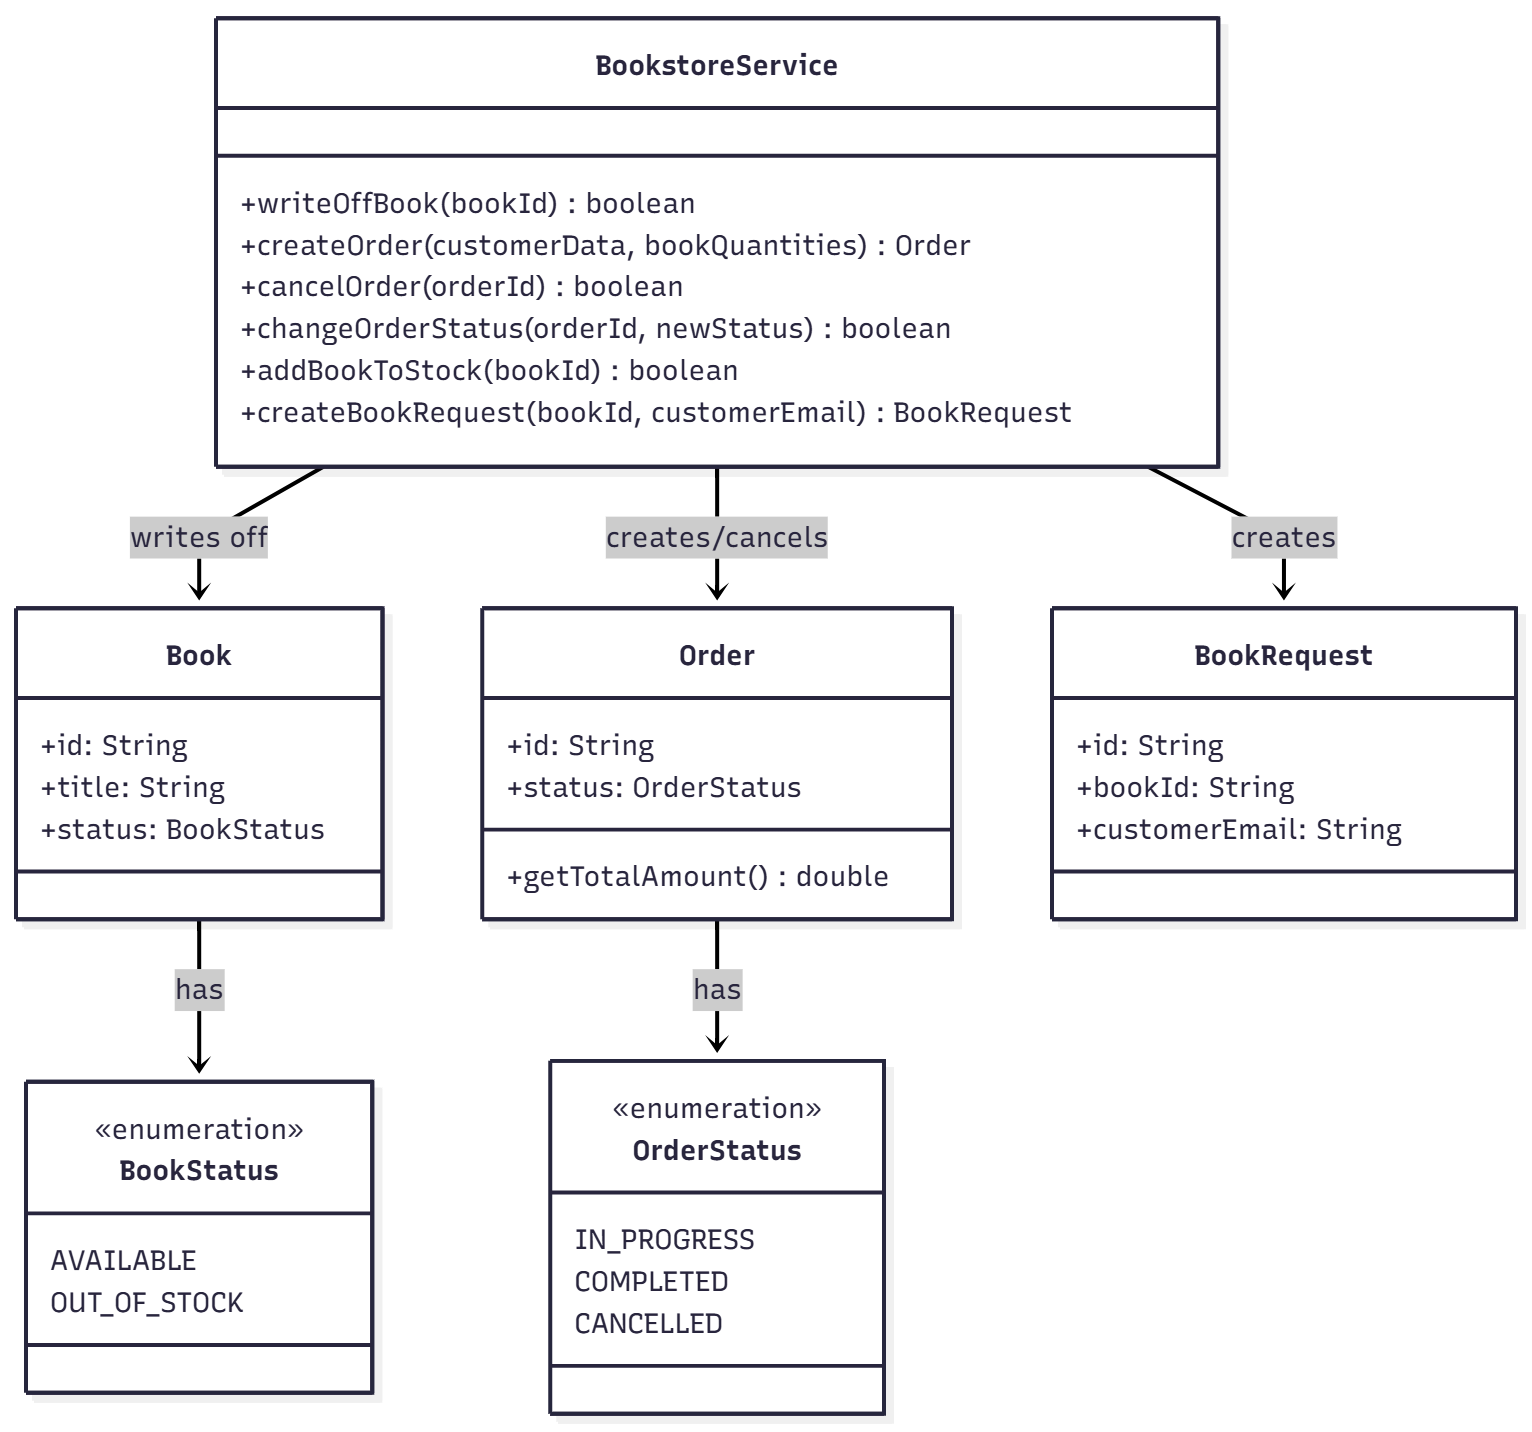
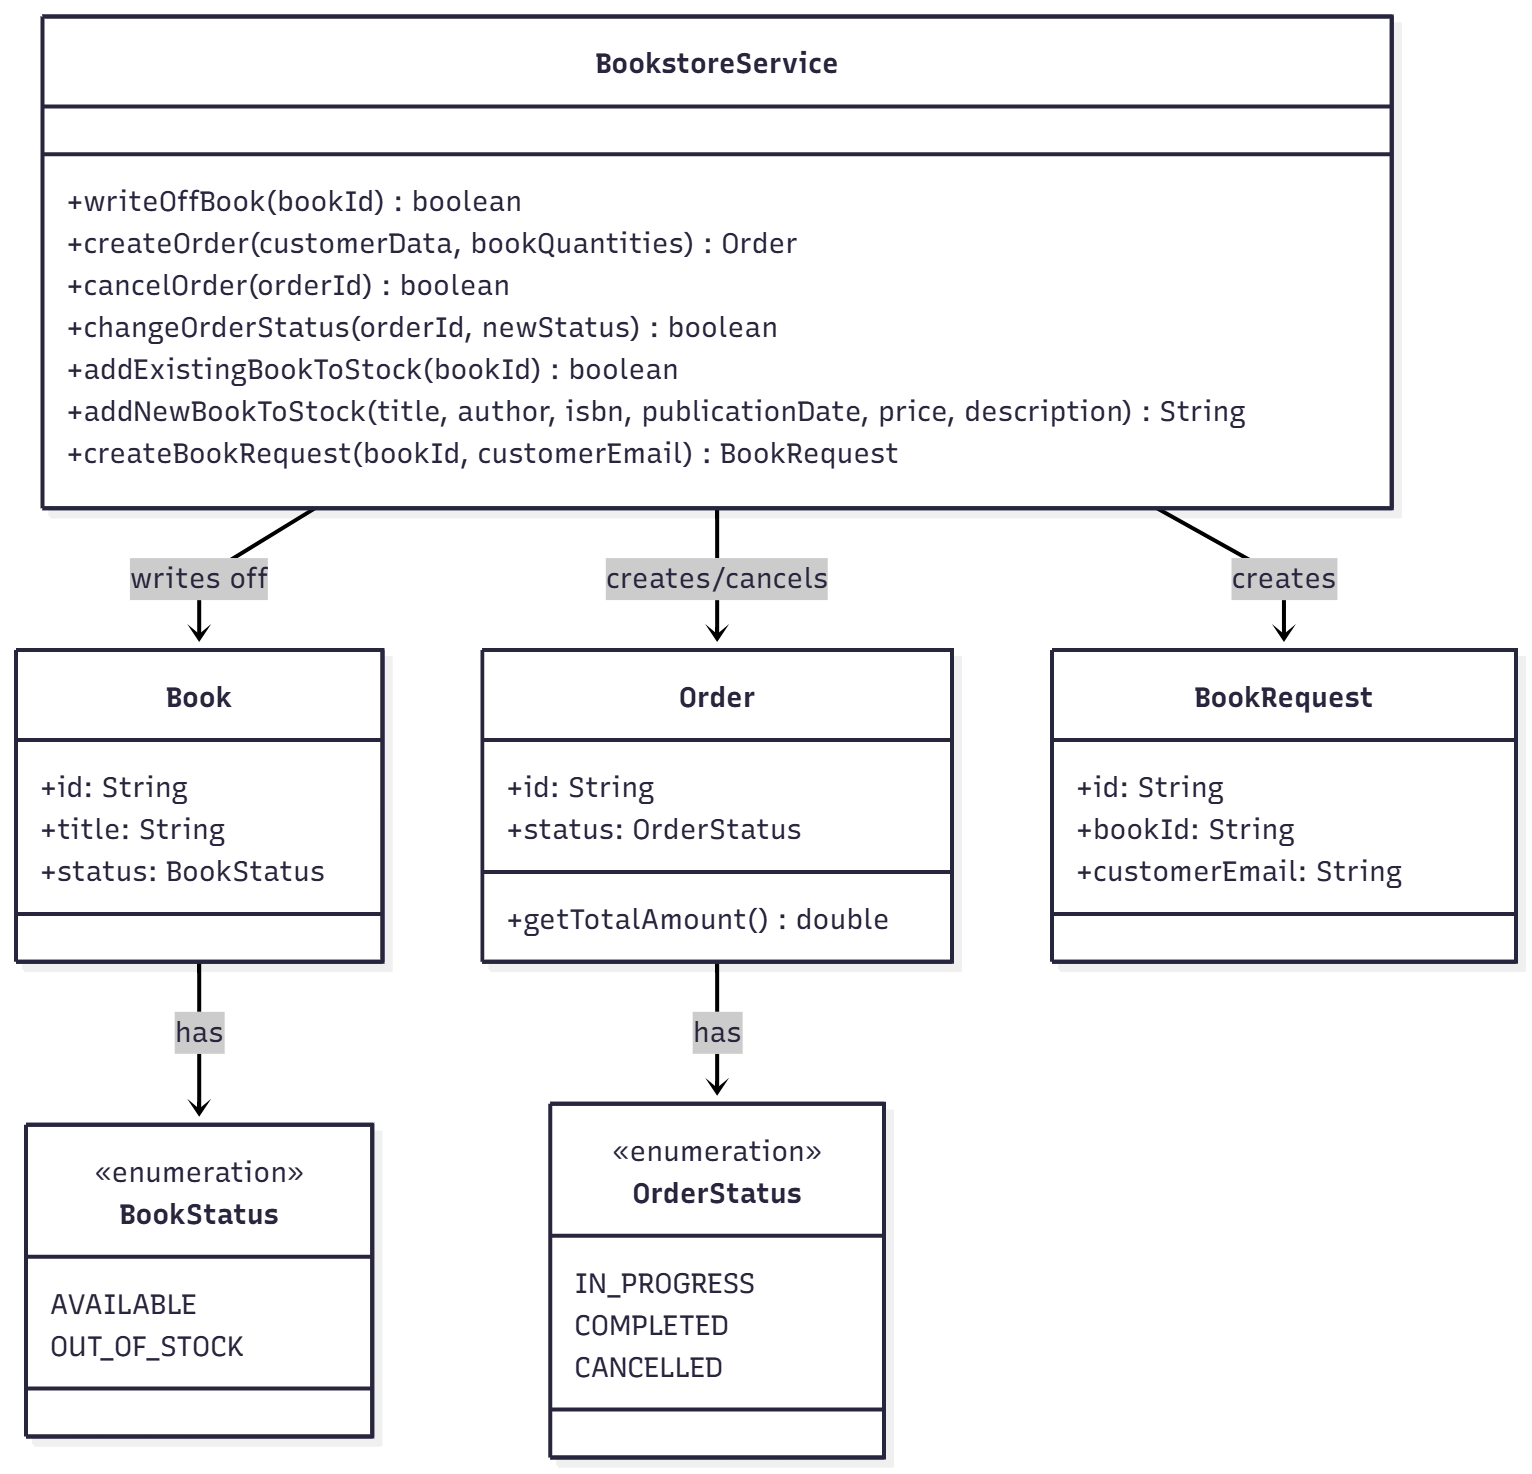
Replace addBookToStock abstract method to addExistingBookToStock by book id and addNewBookToStock by title, author, etc.

Changed region(s): [[0.0, 0.0, 0.9817, 0.9832], [0.3068, 0.4916, 0.6136, 1.0]]

diff --git a/task-4/1/src/bookstore/services/BookstoreService.java b/task-4/1/src/bookstore/services/BookstoreService.java
@@ -38,7 +38,7 @@ public class BookstoreService {
         }
     }
 
-    // Основные функции из ТЗ
+    // Main functions from the TOR
 
     public boolean writeOffBook(String bookId) {
         Book book = books.get(bookId);
@@ -107,20 +107,91 @@ public class BookstoreService {
         return true;
     }
 
-    public boolean addBookToStock(String bookId) {
+    // A method for adding an existing book to a warehouse
+    public boolean addExistingBookToStock(String bookId) {
         Book book = books.get(bookId);
-        if (book != null) {
-            book.setStatus(BookStatus.AVAILABLE);
-            book.setArrivalDate(LocalDate.now());
-
-            // Закрываем все запросы на эту книгу
-            bookRequests.values().removeIf(request -> request.getBookId().equals(bookId));
-
-            System.out.println("Book '" + book.getTitle() + "' added to stock");
-            return true;
+        if (book == null) {
+            System.out.println("Book with ID '" + bookId + "' not found");
+            return false;
         }
-        System.out.println("Failed to add book to stock: " + bookId);
-        return false;
+
+        if (book.getStatus() == BookStatus.AVAILABLE) {
+            System.out.println("Book '" + book.getTitle() + "' is already in stock");
+            return false;
+        }
+
+        book.setStatus(BookStatus.AVAILABLE);
+        book.setArrivalDate(LocalDate.now());
+
+        // Close all requests for this book
+        int closedRequests = 0;
+        for (BookRequest request : bookRequests.values()) {
+            if (request.getBookId().equals(bookId)) {
+                closedRequests++;
+            }
+        }
+        bookRequests.values().removeIf(request -> request.getBookId().equals(bookId));
+
+        System.out.println("Book '" + book.getTitle() + "' added to stock. Closed " + closedRequests + " requests.");
+        return true;
+    }
+
+    public String addNewBookToStock(String title, String author, String isbn, LocalDate publicationDate, double price,
+                                     String description) {
+
+        // Generate new ID (B001, B002, ...)
+        String bookId = generateBookId();
+
+        try {
+            Book newBook = new Book(
+                    bookId,
+                    Objects.requireNonNull(title, "Title cannot be null"),
+                    Objects.requireNonNull(author, "Author cannot be null"),
+                    Objects.requireNonNull(isbn, "ISBN cannot be null"),
+                    Objects.requireNonNull(publicationDate, "Publication date cannot be null"),
+                    validatePrice(price),
+                    BookStatus.AVAILABLE,
+                    LocalDate.now(),
+                    Objects.requireNonNull(description, "Description cannot be null")
+            );
+
+            books.put(bookId, newBook);
+
+            System.out.println("New book '" + title + "' added to stock with ID: " + bookId);
+            return bookId;
+
+        } catch (IllegalArgumentException e) {
+            System.out.println("Failed to add new book: " + e.getMessage());
+            return null;
+        }
+    }
+
+    private double validatePrice(double price) {
+        if (price <= 0) {
+            throw new IllegalArgumentException("Price must be positive");
+        }
+        return price;
+    }
+
+    private String generateBookId() {
+        int maxNumber = 0;
+
+        // We find the maximum number among the existing IDs in the format B001, B002, ...
+        for (String id : books.keySet()) {
+            if (id.matches("B\\d+")) {
+                try {
+                    int number = Integer.parseInt(id.substring(1));
+                    if (number > maxNumber) {
+                        maxNumber = number;
+                    }
+                } catch (NumberFormatException e) {
+                    // Ignoring IDs that do not match the format
+                }
+            }
+        }
+
+        // Generate next ID
+        return String.format("B%03d", maxNumber + 1);
     }
 
     public BookRequest createBookRequest(String bookId, String customerEmail) {
@@ -138,12 +209,12 @@ public class BookstoreService {
         return null;
     }
 
-    // Дополнительные функции для просмотра
+    // Additional functions for view
 
     public List<Book> getBooksSorted(String sortBy) {
         List<Book> bookList = new ArrayList<>(books.values());
 
-        // Нормализуем параметр: удаляем пробелы, приводим к нижнему регистру
+        // Normalize the parameter: remove spaces, reduce to lowercase
         String normalizedSortBy = sortBy.toLowerCase().replaceAll("\\s+", "");
 
         switch (normalizedSortBy) {
@@ -160,7 +231,7 @@ public class BookstoreService {
                 bookList.sort(Comparator.comparing(b -> b.getStatus().name()));
                 break;
             default:
-                // По умолчанию сортируем по названию
+                // By default, we sort by name.
                 bookList.sort(Comparator.comparing(Book::getTitle));
                 System.out.println("Unknown sort parameter: '" + sortBy + "'. Sorting by title.");
                 break;
@@ -187,7 +258,7 @@ public class BookstoreService {
                 orderList.sort(Comparator.comparing(order -> order.getStatus().name()));
                 break;
             default:
-                // По умолчанию сортируем по дате заказа
+                // By default, we sort by order date.
                 orderList.sort(Comparator.comparing(Order::getOrderDate));
                 System.out.println("Unknown sort parameter: '" + sortBy + "'. Sorting by order date.");
                 break;
@@ -196,9 +267,9 @@ public class BookstoreService {
         return orderList;
     }
 
-    // Список запросов на книгу (сортировать по количеству запросов, алфавиту)
+    // List of book requests (sort by number of requests, alphabetically)
     public List<Map<String, Object>> getBookRequestsSorted(String sortBy) {
-        // Группируем запросы по книге
+        // Grouping queries by book
         Map<String, Long> requestCounts = bookRequests.values().stream()
                 .collect(Collectors.groupingBy(
                         BookRequest::getBookId,
@@ -233,7 +304,7 @@ public class BookstoreService {
         return result;
     }
 
-    // Список выполненных заказов за период времени (сортировать по дате, цене)
+    // List of completed orders over a period of time (sort by date, price)
     public List<Order> getCompletedOrdersForPeriod(LocalDateTime start, LocalDateTime end,
                                                    String sortBy) {
         List<Order> completedOrders = orders.values().stream()
@@ -254,14 +325,14 @@ public class BookstoreService {
         return completedOrders;
     }
 
-    // Сумму заработанных средств за период времени
+    // The amount of money earned over a period of time
     public double getRevenueForPeriod(LocalDateTime start, LocalDateTime end) {
         return getCompletedOrdersForPeriod(start, end, "date").stream()
                 .mapToDouble(Order::getTotalAmount)
                 .sum();
     }
 
-    // Количество выполненных заказов за период времени
+    // The number of completed orders over a period of time
     public int getCompletedOrdersCountForPeriod(LocalDateTime start, LocalDateTime end) {
         return getCompletedOrdersForPeriod(start, end, "date").size();
     }
@@ -292,7 +363,7 @@ public class BookstoreService {
                 unsoldBooks.sort(Comparator.comparing(Book::getPrice));
                 break;
             default:
-                // По умолчанию сортируем по дате поступления
+                // By default, we sort by receipt date.
                 unsoldBooks.sort(Comparator.comparing(Book::getArrivalDate));
                 break;
         }
@@ -329,7 +400,7 @@ public class BookstoreService {
         return book != null ? book.getDescription() : "Book not found";
     }
 
-    // Вспомогательные методы
+    // Auxiliary methods
 
     public Book getBook(String bookId) {
         return books.get(bookId);

diff --git a/task-4/1/src/bookstore/Main.java b/task-4/1/src/bookstore/Main.java
@@ -1,8 +1,8 @@
 package bookstore;
 
-import bookstore.enums.OrderStatus;
 import bookstore.models.Order;
 import bookstore.services.BookstoreService;
+import java.time.LocalDate;
 import java.util.HashMap;
 import java.util.Map;
 
@@ -13,42 +13,75 @@ public class Main {
         BookstoreService service = new BookstoreService();
         service.initializeBooks();
 
-        System.out.println("1. ALL BOOKS IN STORE:");
+        // 1. Show the initial assortment
+        System.out.println("1. INITIAL BOOK COLLECTION:");
         service.getAllBooks().forEach(book ->
-                System.out.println("- " + book.getTitle() + " (" + book.getStatus() + ")"));
+                System.out.println("  " + book.getId() + ": " + book.getTitle() + " - " + book.getStatus()));
 
-        // Create order
-        System.out.println("\n2. CREATING ORDER:");
+        // 2. Add a new book (auto-generation ID)
+        System.out.println("\n2. ADD NEW BOOK TO STOCK (auto-generated ID):");
+        String newBookId = service.addNewBookToStock(
+                "The Brothers Karamazov",
+                "Fyodor Dostoevsky",
+                "978-0-14-044924-2",
+                LocalDate.of(1880, 1, 1),
+                32.99,
+                "A philosophical novel about faith, doubt, and reason."
+        );
+
+        if (newBookId != null) {
+            System.out.println("  Success! New book ID: " + newBookId);
+        }
+
+        // 3. Add another new book (auto-generation ID)
+        System.out.println("\n3. ADD ANOTHER NEW BOOK TO STOCK (auto-generated ID):");
+        String newAnotherIdBook = service.addNewBookToStock(
+                "Dead Souls",
+                "Nikolai Gogol",
+                "978-0-14-044807-8",
+                LocalDate.of(1842, 1, 1),
+                22.99,                         // Price
+                "A satirical novel about Russian society."
+        );
+
+        System.out.println("  Result: " + (newAnotherIdBook != null ? "SUCCESS" : "FAILED"));
+
+        // 4. Add an existing book to the warehouse (which was OUT_OF_STOCK)
+        System.out.println("\n4. ADD EXISTING BOOK TO STOCK (B003):");
+        boolean existingBook = service.addExistingBookToStock("B003");
+        System.out.println("  Result: " + (existingBook ? "SUCCESS" : "FAILED"));
+
+        // 5. Try to add a non-existent book
+        System.out.println("\n5. ADD NON-EXISTENT BOOK TO STOCK:");
+        boolean nonExistent = service.addExistingBookToStock("NONEXISTENT");
+        System.out.println("  Result: " + (nonExistent ? "SUCCESS (UNEXPECTED)" : "FAILED (EXPECTED)"));
+
+        // 6. Show the updated assortment
+        System.out.println("\n6. UPDATED BOOK COLLECTION:");
+        service.getAllBooks().forEach(book ->
+                System.out.println("  " + book.getId() + ": " + book.getTitle() + " - " + book.getStatus()));
+
+        // 7. Create an order with a new bookСоздаем заказ с новой книгой
+        System.out.println("\n7. CREATING ORDER WITH NEW BOOK:");
         Map<String, Integer> orderBooks = new HashMap<>();
         orderBooks.put("B001", 1);
-        orderBooks.put("B003", 1); // Out of stock
+        orderBooks.put(newBookId, 2);
 
         Order order = service.createOrder(
-                "Ivan Ivanov",
-                "ivan@example.com",
-                "+79161234567",
+                "John Smith",
+                "john@example.com",
+                "+1234567890",
                 orderBooks
         );
 
         if (order != null) {
-            System.out.println(service.getOrderDetails(order.getId()));
-
-            // Add book to stock
-            System.out.println("3. ADDING BOOK TO STOCK:");
-            boolean added = service.addBookToStock("B003");
-            System.out.println("Result: " + (added ? "SUCCESS" : "FAILED"));
-
-            // Complete order
-            System.out.println("\n4. COMPLETING ORDER:");
-            boolean completed = service.changeOrderStatus(order.getId(), OrderStatus.COMPLETED);
-            System.out.println("Result: " + (completed ? "SUCCESS" : "FAILED"));
-
-            if (completed) {
-                System.out.println(service.getOrderDetails(order.getId()));
-            }
-        } else {
-            System.out.println("Failed to create order!");
+            System.out.println("  Order created: " + order);
         }
+
+        // 8. Statistics
+        System.out.println("\n8. STORE STATISTICS:");
+        System.out.println("  Total books: " + service.getAllBooks().size());
+        System.out.println("  Total orders: " + service.getAllOrders().size());
 
         System.out.println("\n=== DEMONSTRATION COMPLETED ===");
     }

diff --git a/task-4/1/src/bookstore/BookstoreTest.java b/task-4/1/src/bookstore/BookstoreTest.java
@@ -42,7 +42,7 @@ public class BookstoreTest {
 
         // 1.3 Add book back to stock
         System.out.println("\n1.3 Adding book B001 back to stock:");
-        boolean added = service.addBookToStock("B001");
+        boolean added = service.addExistingBookToStock("B001");
         System.out.println("Result: " + (added ? "SUCCESS" : "FAILED"));
 
         // 1.4 Book sorting
@@ -133,7 +133,7 @@ public class BookstoreTest {
 
         // 3.3 Add book to stock and check requests
         System.out.println("\n3.3 Adding book B005 to stock:");
-        service.addBookToStock("B005");
+        service.addExistingBookToStock("B005");
 
         // 3.4 Check that requests are cleared
         System.out.println("Active requests after adding to stock: " +
@@ -230,7 +230,7 @@ public class BookstoreTest {
 
         // 5.5 Add non-existent book to stock
         System.out.println("\n5.5 Adding non-existent book to stock:");
-        boolean added = service.addBookToStock("NONEXISTENT");
+        boolean added = service.addExistingBookToStock("NONEXISTENT");
         System.out.println("Result: " + (added ? "SUCCESS (UNEXPECTED)" : "FAILED (EXPECTED)"));
 
         // 5.6 Create request for available book

diff --git a/task-4/1/src/bookstore/models/Book.java b/task-4/1/src/bookstore/models/Book.java
@@ -36,7 +36,6 @@ public class Book {
         return price;
     }
 
-    // Геттеры
     public String getId() { return id; }
     public String getTitle() { return title; }
     public String getAuthor() { return author; }
@@ -47,7 +46,6 @@ public class Book {
     public LocalDate getArrivalDate() { return arrivalDate; }
     public String getDescription() { return description; }
 
-    // Сеттеры
     public void setPrice(double price) {
         this.price = validatePrice(price);
     }
@@ -75,6 +73,7 @@ public class Book {
 
     @Override
     public String toString() {
-        return String.format("%s - %s ($%.2f) [%s]", title, author, price, status);
+        return String.format("Book{id='%s', title='%s', author='%s', price=%.2f, status=%s}",
+                id, title, author, price, status);
     }
 }
